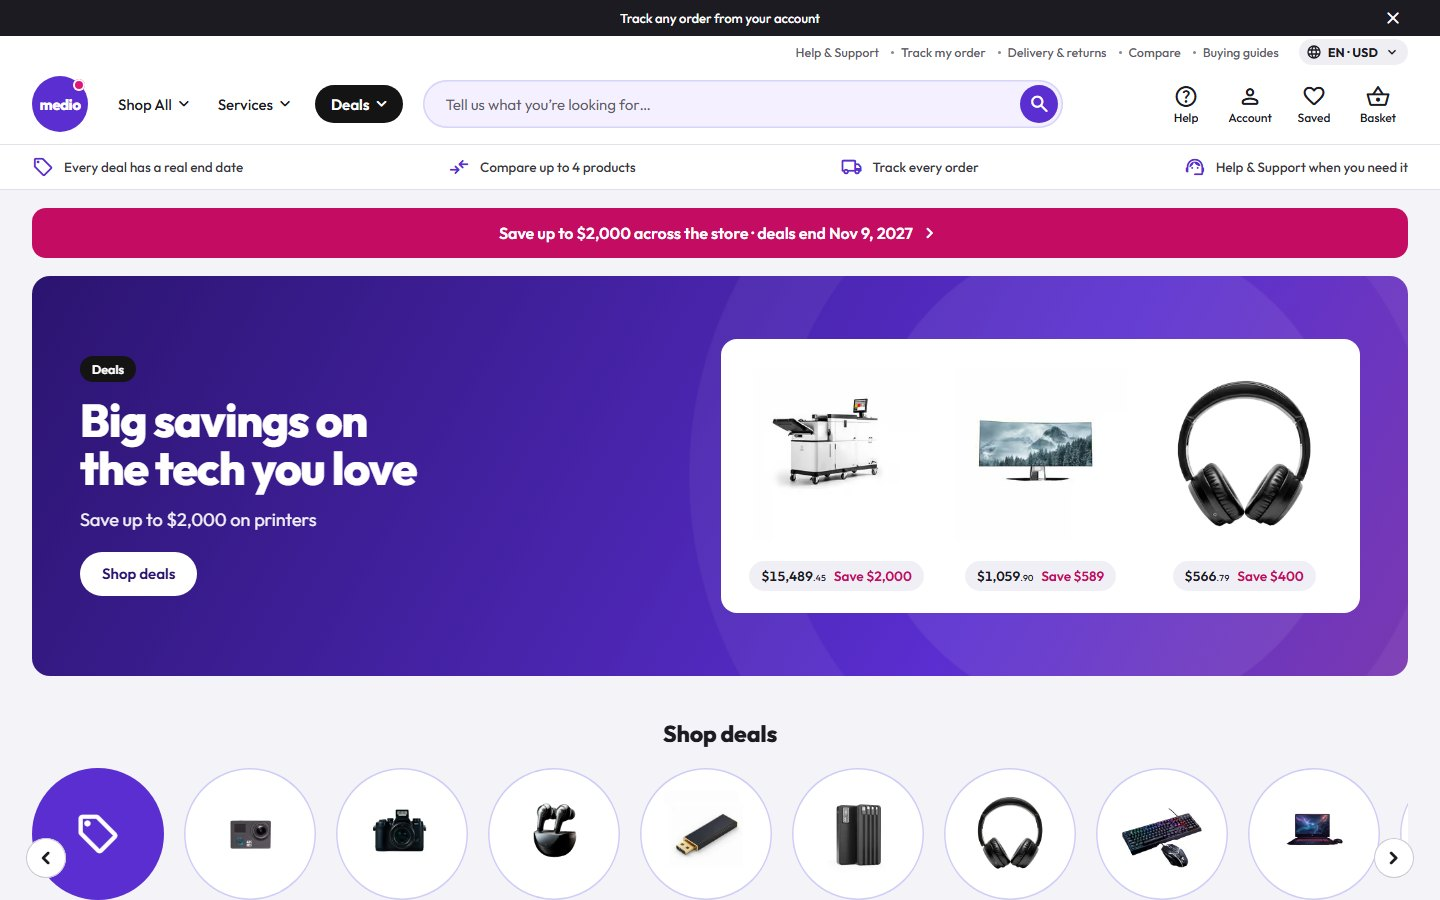
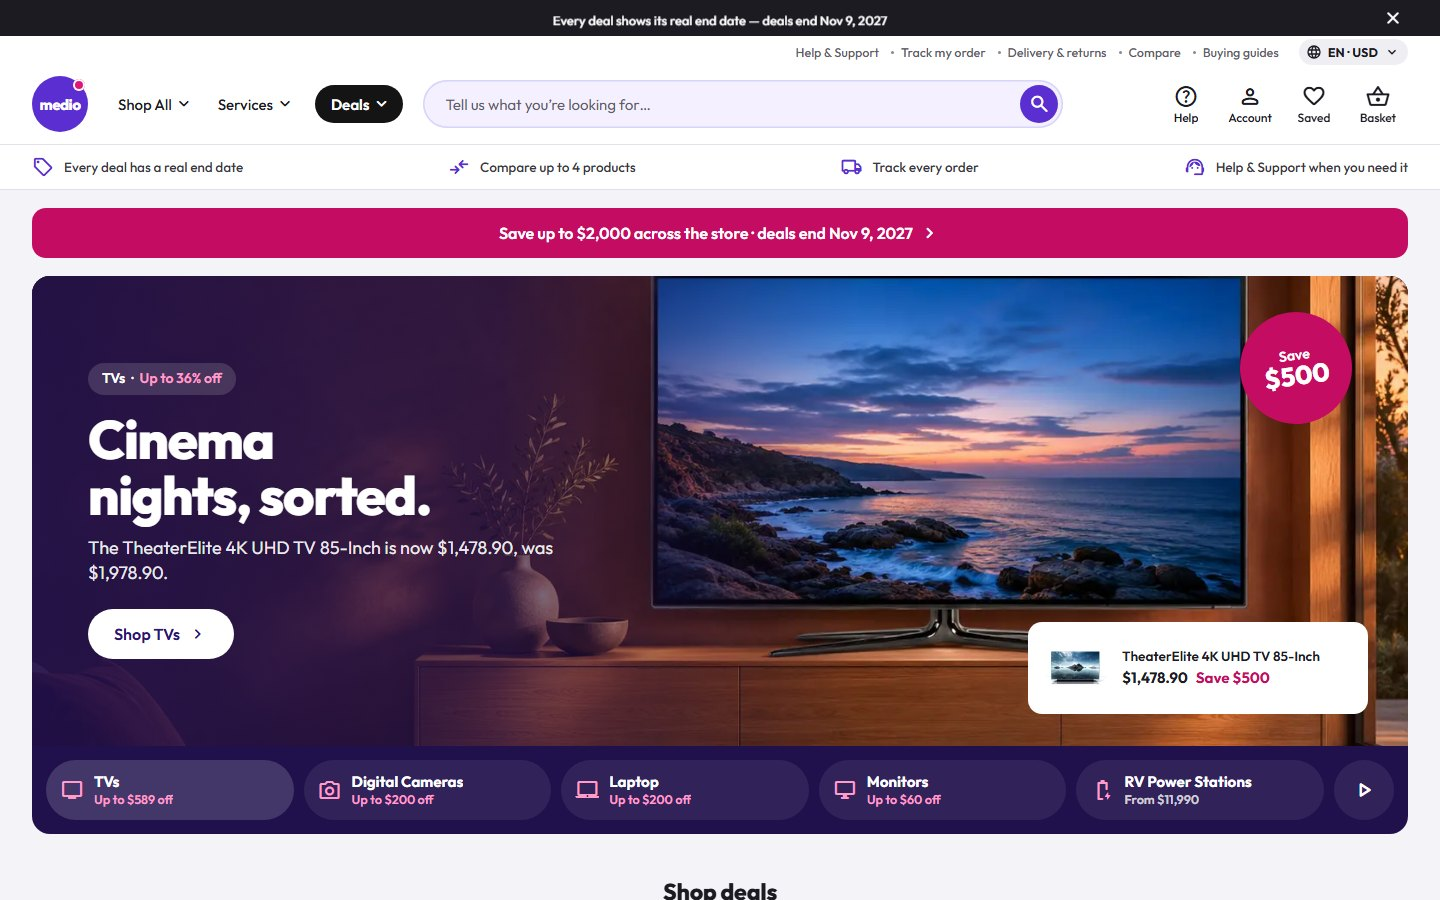
Medio 1.0.8: live screenshots of the slider hero, tests table, wiki and README

diff --git a/README.md b/README.md
@@ -59,7 +59,7 @@ Selldone's own cart, checkout, payments and orders keep working underneath. Noth
 ## Highlights
 
 - **Header:** a dark strip with one honest message at a time (the deals' real end date, compare, track) and a close ×; a utility row (Help & Support, Track my order, Delivery & returns, Compare, Buying guides, the language and currency pill); the round violet logo, **Shop All** (every category on the left, the chosen one's top deals on the right), **Services**, a black **Deals** pill (every category with deals and its best saving); a big rounded search with a round violet button and suggestions; Help, Account, Saved and Basket (the basket's total as its label); four promises with line icons. On a phone: the logo with four icons, the search across, and a right-hand menu with All deals, six categories and "Show N more", the services and the language & currency row.
-- **Home:** a magenta campaign strip, a violet hero with the three biggest deals, **Shop deals** round category tiles, promo tiles with the owner's category photos, **The latest from <brand>**, **Deals from our top brands**, dark **Deals** cards with each deal's own clock, Best sellers / Just arrived / Popular picks tabs (one tab per tag), **Discover our amazing offers**, **Why shop with Medio** (six pastel tiles, each a real page) and the newest buying guides.
+- **Home:** a magenta campaign strip, a photo slider hero (one slide per category with a wide photo, its best-selling deal, a Save circle that fits any currency, pill tabs that fill as they play), **Shop deals** round category tiles, promo tiles with the owner's category photos, **The latest from <brand>**, **Deals from our top brands**, dark **Deals** cards with each deal's own clock, Best sellers / Just arrived / Popular picks tabs (one tab per tag), **Discover our amazing offers**, **Why shop with Medio** (six pastel tiles, each a real page) and the newest buying guides.
 - **Category hub** over every results page: breadcrumb, a violet campaign strip, the name, a round category carousel; Top categories, Popular links and Buying guides on the left; Top deals, **Can't decide?** (one choice per tag in the category), guide cards and the category's brands on the right.
 - **Results page:** a Filters card on the left (Hide out of stock, Deals, price boxes and ranges, Brand, Colour, capacity and the category's spec filters, "Show N more"; a side sheet on a phone), a toolbar (Sort by, Show 20 / 40 / 60, the count, **List / Grid**). The list row: the picture; the name, six bullets from the product's own spec and an offer box; a price column with Save, Was, In stock, the shop's own delivery ways, View product and Add to basket.
 - **Card:** white and rounded: small badges (Deal, New, Best seller), a two-line name, the price with a magenta "Save $X", "Was", the deal's clock, swatches or capacity chips, a violet pill **Add to basket** that turns into "− n +" in place, Compare and Save.

diff --git a/docs/wiki/Home.md b/docs/wiki/Home.md
@@ -42,7 +42,7 @@ It runs on **[medio.selldone.shop](https://medio.selldone.shop)**, one address o
 ## What you get
 
 - **Header:** a dark strip with one honest message at a time and a close ×; a utility row with the language and currency pill; the round logo, Shop All (every category, the chosen one's top deals), Services, a black Deals pill; a big round search with suggestions; Help, Account, Saved and Basket (its total as the label); four promises. On a phone: four icons, the search across and a right-hand menu (All deals, six categories and "Show N more", services, language & currency).
-- **Home:** a campaign strip, a violet hero with the three biggest deals, round category tiles, promo tiles with the category photos, the latest from a brand, brand deal cards, dark deal cards with real clocks, Best sellers / Just arrived / Popular picks tabs, offers, Why shop with Medio (six pastel tiles) and the newest buying guides.
+- **Home:** a campaign strip, a photo slider hero (one slide per category with a wide photo: its line, its pick, a Save circle that always fits, pill tabs that fill as they play), round category tiles, promo tiles with the category photos, the latest from a brand, brand deal cards, dark deal cards with real clocks, Best sellers / Just arrived / Popular picks tabs, offers, Why shop with Medio (six pastel tiles) and the newest buying guides.
 - **Category hub:** a campaign strip, the categories as round tiles, Top categories, Popular links, Buying guides, Top deals, Can't decide? (one choice per tag) and the category's brands.
 - **Results pages:** a Filters card (Hide out of stock, Deals, price, Brand, Colour, capacity, spec filters), Sort by, Show 20 / 40 / 60, the count and List / Grid; the list row has six spec bullets and a price column.
 - **Cards:** white, rounded, small badges, the price with a magenta Save and Was, the deal's clock, swatches or capacity chips, a violet Add to basket that turns into "− n +", Compare and Save.

diff --git a/docs/wiki/Customize.md b/docs/wiki/Customize.md
@@ -31,7 +31,7 @@ The slots are registered in `components/medio/medio-photos.ts`. Each looks for `
 
 | File | Size | Where |
 | --- | --- | --- |
-| `hero-main.webp` | 2400×960 | Home, the big hero (words on its calm left side); without it the hero shows the three biggest deals on a white stage |
+| `hero-main.webp` | 2400×960 | Home, the big hero, used only when fewer than two categories have a wide photo (`assets/medio/wide-<category>.webp`, then the hero is the photo slider); without either the hero shows the three biggest deals on a white stage |
 | `why-deals.webp`, `why-compare.webp`, `why-track.webp`, `why-returns.webp`, `why-help.webp`, `why-secure.webp` | 800×800 | Home, the six "Why shop with" tiles (shown in a circle) |
 | `help-hero.webp` | 2400×640 | Help & Support (the FAQ), beside the banner's words |
 | `about-hero.webp` | 2400×900 | About us |
@@ -97,6 +97,7 @@ Right to left, Medio keeps these rules (in `style/medio.scss` and `components/me
 - elements that show only the merchant's words (names, brands, articles) use `unicode-bidi: plaintext`, so "TVs." never shows as ".TVs";
 - "+3", "-20%" and price ranges keep their left-to-right order;
 - arrows and chevrons mirror (`md-chev`, `k-flip`), drawers open from the other side, photo scrims and the hero photo's subject move with the words;
+- words in a circle (the hero's Save circle) stay inside it in every currency and language: the amount may take two lines and `components/medio/fit-in-circle.ts` shrinks it until it fits; check with the kit's `circle-fit-check.cjs` (`CURRENCIES=all LONG=1`);
 - no letter-spacing on Arabic or Hindi pages.
 
 ## Rules the design keeps

diff --git a/MEDIO.md b/MEDIO.md
@@ -63,3 +63,6 @@ Kit tools (`new-shop-kits/…`), one browser at a time, `MSYS_NO_PATHCONV=1`, th
 | box-check, light and dark | TOTAL 0 (1.0.3) |
 | currency-check, USD · DKK · AED · EUR · SAR · AUD, 1440 and 390 | TOTAL 0 (1.0.3; one EUR line at 390 was a 429 and passed on a re-run) |
 | medio-errwalk: every page, a post, the basket drawer and page, checkout up to sign-in, en and ar, 1440 and 390 | 0 page errors (1.0.3) |
+| The slider hero (1.0.6–1.0.8), home: contrast-audit (Medio, Ocean, `#ffff00`, light and dark; Arabic light and dark), ring-sweep, box-check (with states), card-edge (Arabic) | all TOTAL 0 (1.0.8) |
+| circle-fit-check, home, 1440 and 390: every currency (USD, DKK, AED, EUR, SAR, AUD) with the long stress amount; Arabic with SAR | TOTAL 0 (1.0.8; the Save circles from 1.0.7) |
+| The slider plays (6 s, the next slide, the page not scrolled), en and ar, 1440 and 390; one height for every slide; dark mode keeps the pick card's dark words | checked live (1.0.6) |
